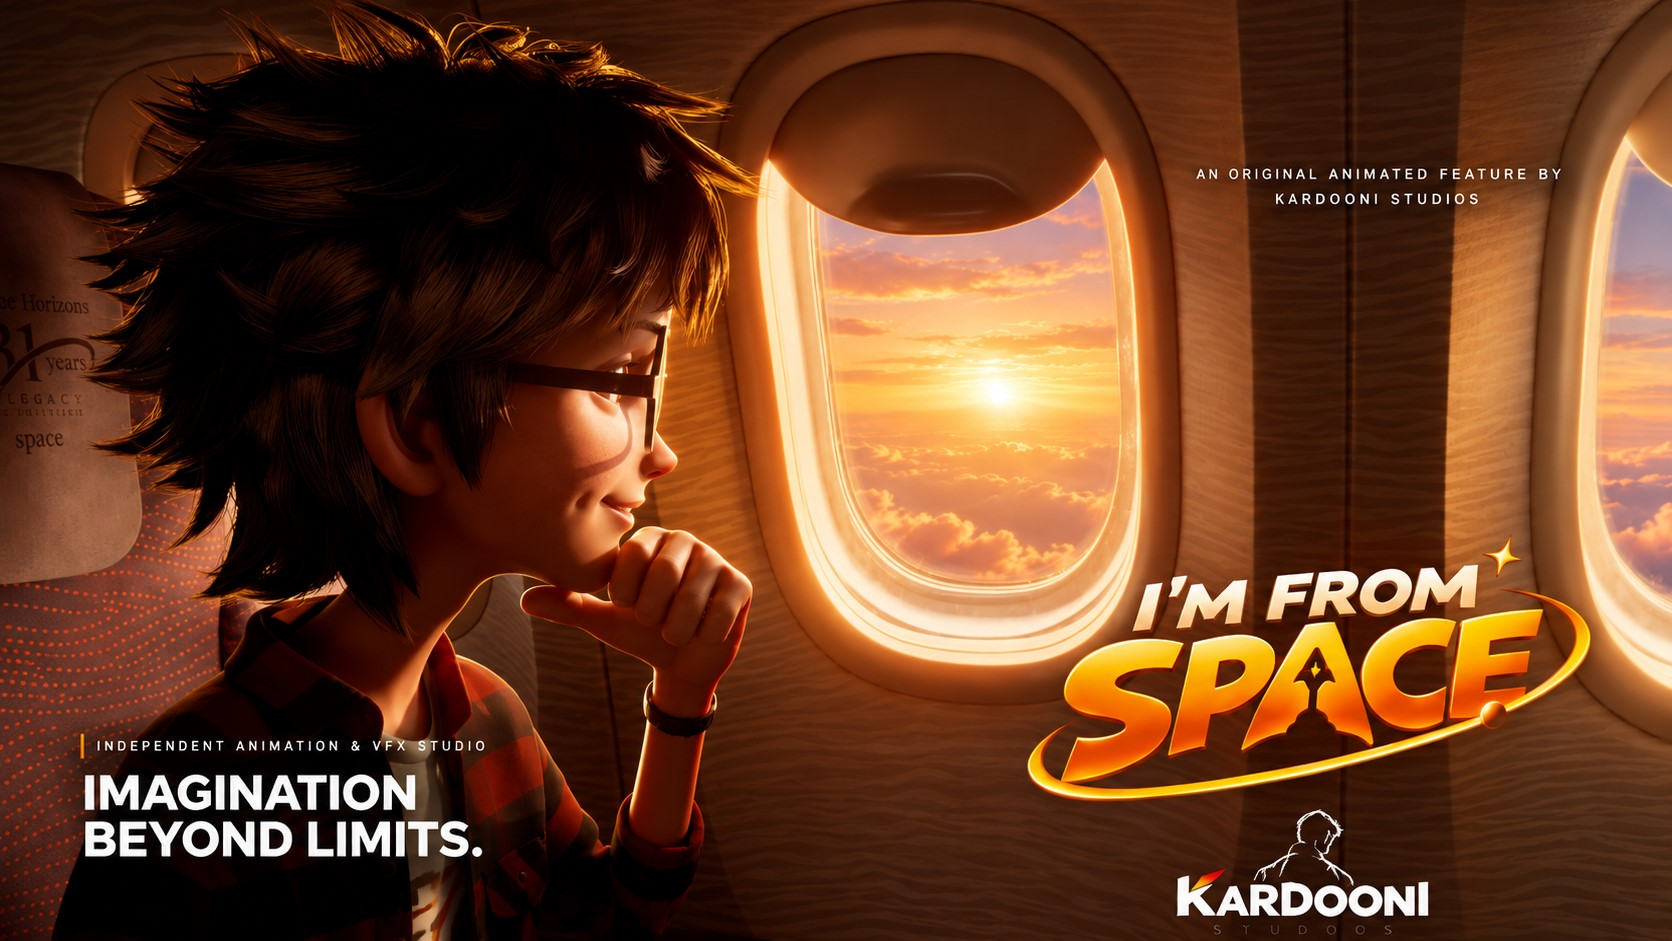
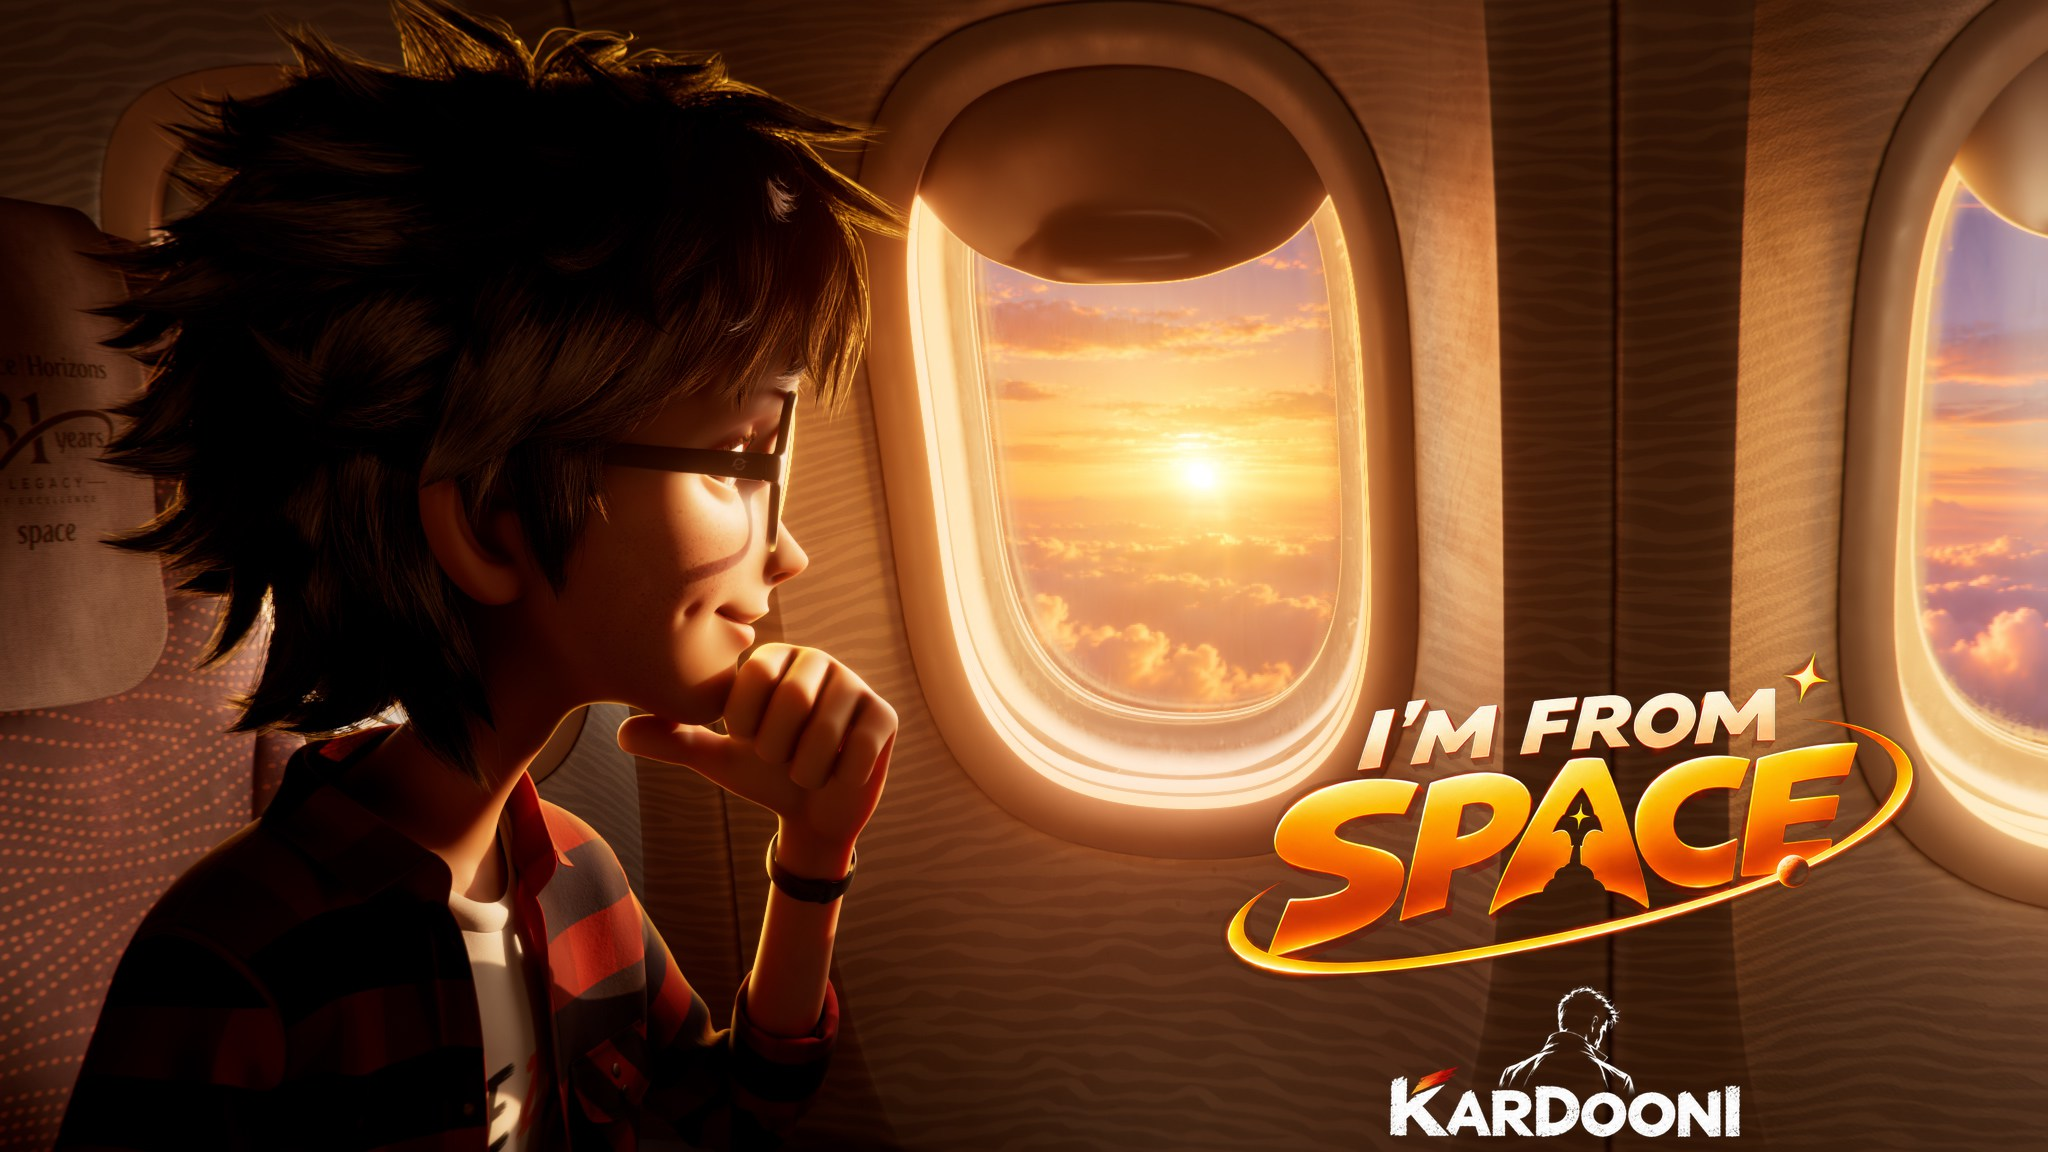
pdate homepage: responsive hero section, move    button, add hover/tap animations, and adjust mobile/desktop layout

diff --git a/app/page.tsx b/app/page.tsx
@@ -5,44 +5,69 @@ import Header from "@/components/layout/Header";
 
 export default function Home() {
   return (
-    <main className="relative h-screen w-full overflow-hidden bg-black">
+    <main className="relative w-full overflow-x-hidden bg-black">
       
       {/* کانتینر مشترک */}
-      <div className="w-full h-full px-4 md:px-8">
-        <div className="relative w-full h-full max-w-6xl mx-auto">
+      <div className="w-full px-4 md:px-8">
+        <div className="relative w-full max-w-6xl mx-auto min-h-[110vh] pt-16 md:pt-0 md:-mt-16 pb-20 flex flex-col md:block">
 
-          {/* بکگراند داخل کانتینر */}
-          <div className="absolute inset-0 z-0 bg-[#0a0a0a] overflow-hidden">
+          {/* بکگراند داخل کانتینر با افکت هاور و لرزش */}
+          <motion.div 
+            className="relative md:absolute md:inset-0 z-0 bg-[#0a0a0a] overflow-hidden w-full h-[35vh] md:h-full rounded-lg"
+            whileHover={{ scale: 1.02, rotate: 0.5 }}
+            whileTap={{ 
+              x: [0, -3, 3, -3, 3, 0],
+              rotate: [0, -0.5, 0.5, -0.5, 0.5, 0],
+              transition: { duration: 0.3 }
+            }}
+            transition={{ type: "spring", stiffness: 300, damping: 10 }}
+          >
             <Image 
               src="/images/hero-bg.jpg" 
               alt="Boy looking out airplane window" 
               fill 
               priority
               sizes="(max-width: 1024px) 100vw, 1152px"
-              className="object-contain object-center"
+              className="object-contain object-center md:object-contain"
             />
-          </div>
+
+            {/* دکمه DISCOVER OUR IP - روی عکس در موبایل */}
+            <motion.div
+              initial={{ opacity: 0, y: 20 }}
+              animate={{ opacity: 1, y: 0 }}
+              transition={{ duration: 0.8, delay: 0.4, ease: "easeOut" }}
+              className="absolute bottom-2 right-2 z-20 md:hidden"
+            >
+              <a 
+                href="/our-ip" 
+                className="group flex items-center gap-2 px-3 py-2 border border-white/40 hover:border-kardo-accent hover:bg-kardo-accent transition-all duration-300 bg-black/60 backdrop-blur-sm rounded-lg"
+              >
+                <span className="text-[8px] sm:text-xs tracking-widest font-semibold group-hover:text-black transition-colors">
+                  DISCOVER OUR IP
+                </span>
+                <span className="text-xs group-hover:translate-x-1 group-hover:text-black transition-all">→</span>
+              </a>
+            </motion.div>
+          </motion.div>
 
           {/* هدر */}
           <Header activePage="HOME" />
 
-         
-
-          {/* دکمه DISCOVER OUR IP - پایین هیرو */}
+          {/* دکمه DISCOVER OUR IP - در دسکتاپ سمت راست وسط */}
           <motion.div
-            initial={{ opacity: 0, y: 20 }}
-            animate={{ opacity: 1, y: 0 }}
+            initial={{ opacity: 0, x: 20 }}
+            animate={{ opacity: 1, x: 0 }}
             transition={{ duration: 0.8, delay: 0.4, ease: "easeOut" }}
-            className="absolute bottom-8 md:bottom-12 left-0 w-full z-20 flex justify-center"
+            className="hidden md:flex absolute md:top-1/2 md:right-8 md:-translate-y-1/2 z-20"
           >
             <a 
               href="/our-ip" 
-              className="group flex items-center gap-3 md:gap-4 px-6 py-3 md:px-8 md:py-4 border border-white/40 hover:border-kardo-accent hover:bg-kardo-accent transition-all duration-300 bg-black/40 backdrop-blur-sm"
+              className="group flex items-center gap-4 px-8 py-4 border border-white/40 hover:border-kardo-accent hover:bg-kardo-accent transition-all duration-300 bg-black/40 backdrop-blur-sm rounded-lg"
             >
-              <span className="text-[10px] sm:text-xs md:text-sm tracking-widest font-semibold group-hover:text-black transition-colors">
+              <span className="text-sm tracking-widest font-semibold group-hover:text-black transition-colors">
                 DISCOVER OUR IP
               </span>
-              <span className="text-base md:text-lg group-hover:translate-x-1 group-hover:text-black transition-all">→</span>
+              <span className="text-lg group-hover:translate-x-1 group-hover:text-black transition-all">→</span>
             </a>
           </motion.div>
         </div>

diff --git a/components/the-studio/Leadership.tsx b/components/the-studio/Leadership.tsx
@@ -10,10 +10,10 @@ const LEADERS = [
     image: "/images/javad.jpg",
   },
   {
-    name: "FORNOOSH SHAJARI",
+    name: "FARNOOSH SHAJARI",
     role: "Production Manager",
     description: "An experienced production management professional with international experience in visual effects production. She has managed and coordinated production workflows across various VFX projects, leading teams, managing schedules, and overseeing complex production and delivery pipelines.",
-    image: "/images/fornoosh.jpg",
+    image: "/images/farnoosh.jpg",
   },
 ];
 
